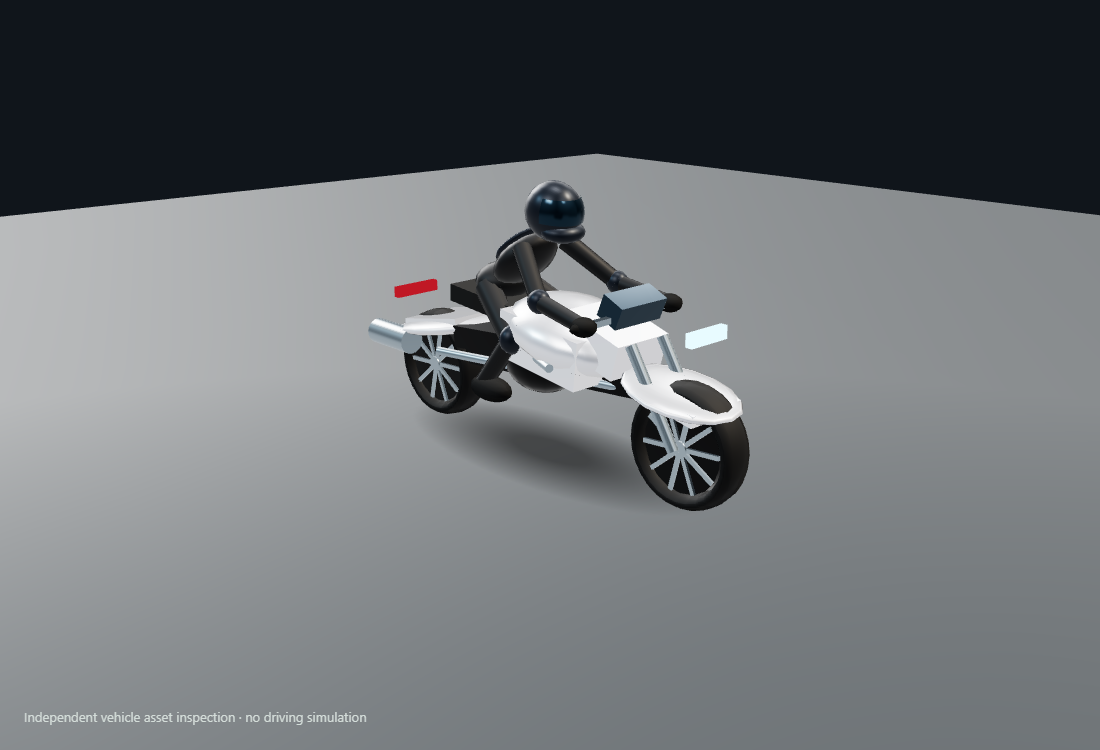
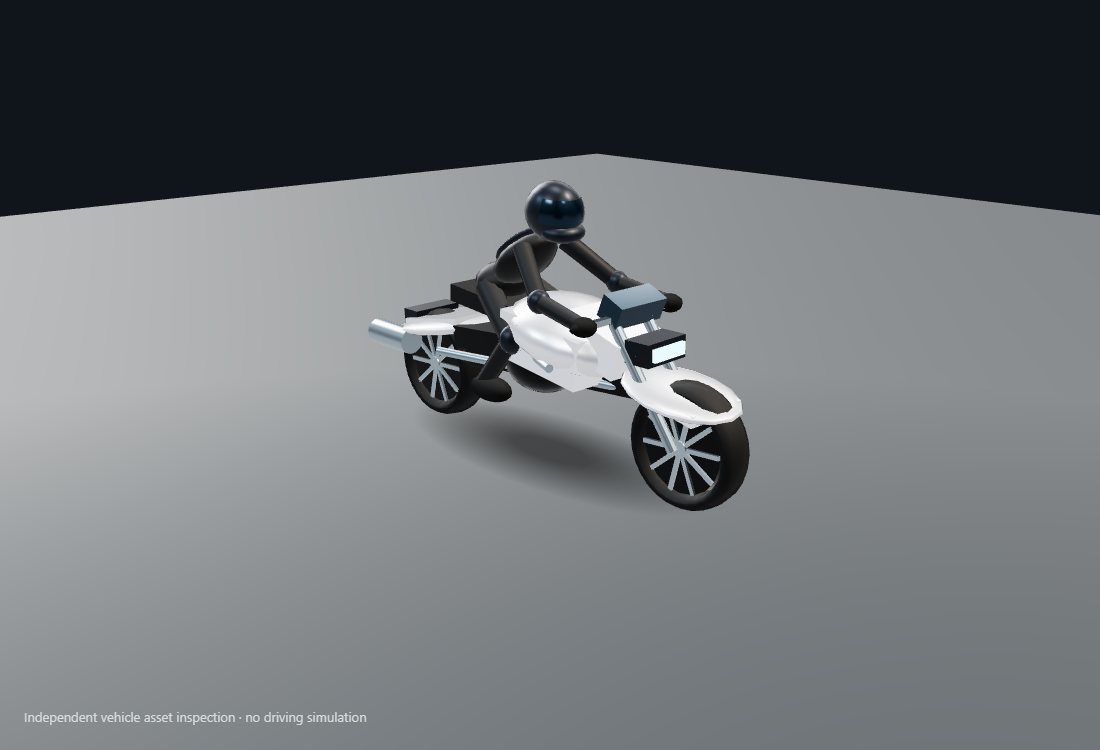
Record clean-checkout, LAN, mode and animation validation

Changed region(s): [[0.5564, 0.4293, 0.68, 0.5213], [0.34, 0.368, 0.4327, 0.4293], [0.5873, 0.552, 0.6182, 0.5827]]

diff --git a/docs/revision-1.1.md b/docs/revision-1.1.md
@@ -12,7 +12,7 @@ The following images are **isolated software asset inspections**, not in-game ca
 |---|---|
 | ![Earlier procedural car](evidence/revision-1.1/car-before.png) | ![Adapted touring model](evidence/revision-1.1/car-after.png) |
 
-Motorcycle riders now have connected, better proportioned body segments and helmets. Their hands follow the actual steering assembly; the body shifts into a turn and tucks with speed/boost. Forks connect to the axle instead of extending below the tire, and tire radius matches the contact plane. These riders remain procedural models, not scanned or artist-sculpted characters.
+Motorcycle riders now have connected, better proportioned body segments and helmets. Their hands follow the actual steering assembly; the body shifts into a turn and tucks with speed/boost. Forks connect the axle to the handlebars, and tire radius matches the contact plane. Headlamps and rear lamps sit in attached housings. These riders remain procedural models, not scanned or artist-sculpted characters.
 
 | Earlier rider | Updated rider |
 |---|---|
@@ -30,15 +30,22 @@ Battery saver is the fresh-profile default. All quality modes have absolute pixe
 
 The relay now rejects malformed/scalar input safely, limits payloads, message rates and queued output, validates finite position data and allowed identities, rejects unrelated browser origins, limits room size and transfers host ownership. Only the host can start a race, and clients wait for the server acknowledgement. Full lobbies, cancelled joins and disconnected sessions resolve cleanly. Local-only binding is the default; LAN access is explicit. This remains a casual relay, not an authoritative anti-cheat service.
 
-The client safely handles blocked/full browser storage. Driver names and vehicle labels are escaped, CSS colors are constrained, and startup errors use text content. Touch release no longer masks a held physical key. Audio effects, actor cleanup, particle storage, tire marks and repeated race teardown have bounded lifetime checks. Previously tracked browser profiles and generated bundles were removed from this branch's index and ignored; local copies and Git history are preserved.
+The client safely handles blocked/full browser storage, including an unsuccessful replacement or deletion of an older stored value. Driver names and vehicle labels are escaped, CSS colors are constrained, and startup errors use text content. Touch release no longer masks a held physical key or cancels a second finger on the same button. Pause and focus loss clear held controls and their appearance. Audio effects, actor cleanup, particle storage, tire marks and repeated race teardown have bounded lifetime checks. Previously tracked browser profiles and generated bundles were removed from this branch's index and ignored; local copies and Git history are preserved.
+
+A rematch resets the network clock so position updates resume immediately. A guest's rematch request keeps the result/home controls visible while waiting for the host. Two advertised chase-role modes did not contain their promised rules; their menu entries are replaced with a one-lap Sprint against rivals and open-ended Free Drive. Race, Time Trial and Police Escape retain their three-lap, one-lap and one-lap finish rules respectively.
 
 ## Evidence
 
-- 21 unit/integration tests cover render-rate-independent dynamics, long stalls, springs, pixel budgets, drift recovery, traffic continuity, particle/trail lifetime, storage, markup escaping and the LAN protocol.
+- 23 unit/integration tests cover render-rate-independent dynamics, long stalls, springs, pixel budgets, drift recovery, traffic continuity, particle/trail lifetime, storage, markup escaping, guest waiting state and the LAN protocol.
 - Headless browser smoke covers all four maps, all 26 vehicles, repeated race teardown, 30 FPS presentation bounds, a settled garage, suspended pause/audio, reduced-motion persistence, mixed keyboard/touch input, multi-touch and focus loss.
 - Asset contracts exercise 180 animation samples for each vehicle, verify finite transforms, rider-hand attachment, matching suspension across detail levels, lower distant triangle counts, and particle/trail shader compilation.
 - Four browser WebSocket clients verify synchronized start, full-lobby rejection, host transfer and cancelled connection handling.
+- Two actual game clients verify moving peers, race completion, guest waiting, rematch position updates, host transfer and remote-actor disposal.
+- Twenty map/mode progression fixtures verify finish laps, open-ended Free Drive, bounded police counts and rival wins. Synthetic gamepad triggers verify partial throttle. These fixtures deliberately place actors at gates; they are not human-completed race or physical-controller evidence.
 - The production bundle boots with its packaged car assets, starts a race, pauses/returns to the menu, includes credits, omits development control hooks, and remains usable when local storage is blocked.
 - Blender 4.5.16 reproduces the car, distance model and rig metadata byte-for-byte from the pinned source. Logs and hashes are under [evidence/revision-1.1](evidence/revision-1.1).
+- A clean detached checkout passed unit, build, browser smoke, animation, mode, production and two-client race checks. Source text agrees after Git line-ending normalization; model assets are byte-identical. GitHub's [checks for runtime commit `1a1b231`](https://github.com/deba-maity/asphalt/actions/runs/44111162724) also passed on Linux.
+
[1 lines of base64/hex data omitted]
 
 The real-time frozen endurance report is added when complete. Browser checks use headless Chromium and software rendering; no graphical game window or desktop input was used. Physical controllers, native graphics, audio listening, temperature and subjective driving acceptance remain untested.

diff --git a/README.md b/README.md
@@ -32,12 +32,13 @@ Use that worktree command once. If you already created a local `nightshift` bran
 
 ## What changed
 
+- Sprint is a one-lap race against rivals; Free Drive leaves the route open for practice. These replace two menu entries whose advertised chase roles were not implemented. Race, Time Trial and Police Escape remain available.
 - Apex GT and Eclipse V8 use a detailed, credited touring model with separate rolling wheels, steering pivots and stationary brake calipers. A simpler mesh takes over at distance. The other vehicles retain their procedural art.
 - Motorcycles have rebuilt forks, better proportioned riders, hands attached to the steering bars, and responsive lean/tuck. Car bodies use damped suspension pitch and roll while the wheels remain grounded.
 - Driving uses fixed 60 Hz simulation, interpolated moving bodies, analog steering, travel-vector drift and gradual grip recovery. A damped chase camera responds to speed; Reduced camera motion removes shake and field-of-view changes.
 - Tire marks and particles use fixed storage and a small number of draw calls. Traffic follows the sampled road with continuous lane position and heading. Collision responses remove inward momentum; LAN cars turn along the shortest angle.
 - Menus settle instead of continuously rendering the garage. Pausing or switching apps stops the race render loop and suspends engine audio. Battery saver also disables decorative menu animations.
-- The LAN relay validates and bounds messages, limits packet rates and queued data, transfers host ownership, and reports full/disconnected rooms. Local play binds to this machine only by default.
+- The LAN relay validates and bounds messages, limits packet rates and queued data, transfers host ownership, and reports full/disconnected rooms. Rematches immediately resume position updates, and guests keep their result screen while waiting for the host. Local play binds to this machine only by default.
 
 This is still an independent prototype. The detailed car does not replace every vehicle or environment, and these changes do not establish AAA visual quality. Native GPU frame rate, temperature, physical controllers and subjective driving feel still require testing on your PC.
 
